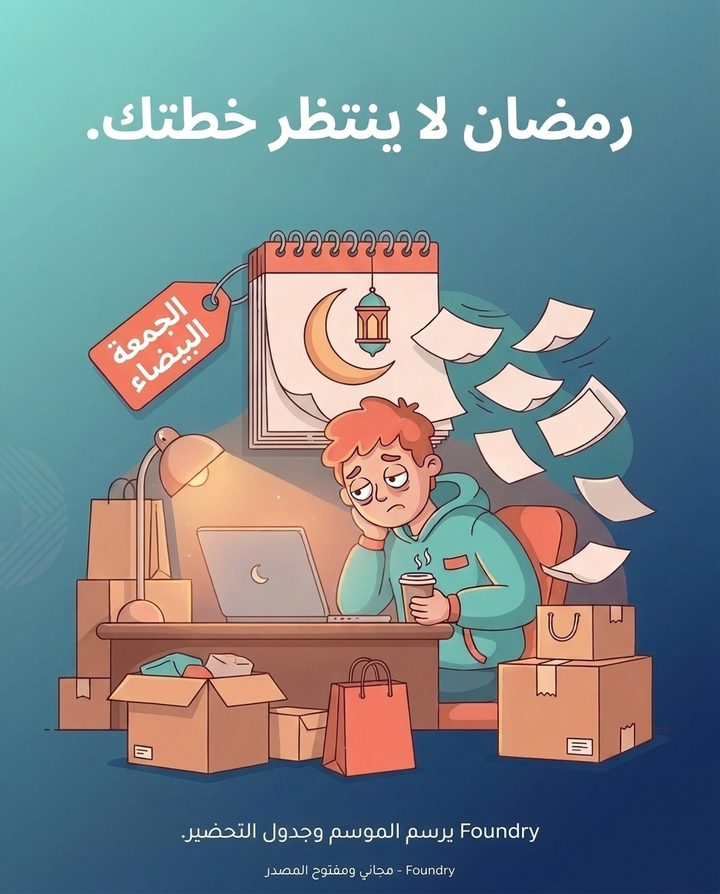
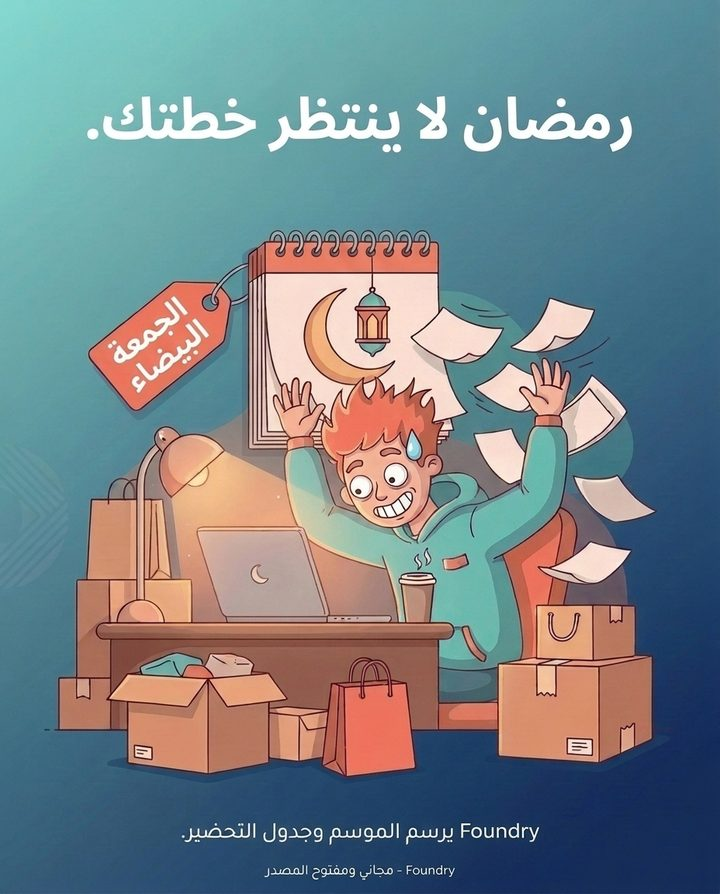
site: happier Sami on the hook posters (EN and AR)

Changed region(s): [[0.3667, 0.3926, 0.825, 0.755]]

diff --git a/docs/ar/index.html b/docs/ar/index.html
@@ -65,7 +65,7 @@
     </div>
     <div class="two">
       <figure class="panel" style="margin:0">
-        <img src="../img/pain1-ar.jpg" width="720" height="893" alt="رسم توضيحي: مشتري إعلانات مرهق أمام حاسوبه في التاسعة مساءً وحوله جداول وتقارير ورقية. النص يقول إن تقرير العميل لا يجب أن يأكل جمعتك." loading="lazy">
+        <img src="../img/pain1-ar.jpg" width="720" height="893" alt="رسم توضيحي: مشتري إعلانات مندهش أمام حاسوبه في التاسعة مساءً وحوله جداول وتقارير ورقية. النص يقول إن تقرير العميل لا يجب أن يأكل جمعتك." loading="lazy">
         <figcaption class="body muted">قبل: جداول، ونسخ ولصق، وليلة جمعة.</figcaption>
       </figure>
       <div class="panel">

diff --git a/docs/index.html b/docs/index.html
@@ -64,7 +64,7 @@
     </div>
     <div class="two">
       <figure class="panel" style="margin:0">
-        <img src="img/pain1.jpg" width="720" height="893" alt="Illustration: a tired media buyer at a laptop at 9 PM, surrounded by spreadsheets and paper reports. The text says your client report shouldn't eat your Friday." loading="lazy">
+        <img src="img/pain1.jpg" width="720" height="893" alt="Illustration: a media buyer at a laptop at 9 PM, surprised at the time, surrounded by spreadsheets and paper reports. The text says your client report shouldn't eat your Friday." loading="lazy">
         <figcaption class="body muted">Before: spreadsheets, copy-paste, Friday night.</figcaption>
       </figure>
       <div class="panel">
